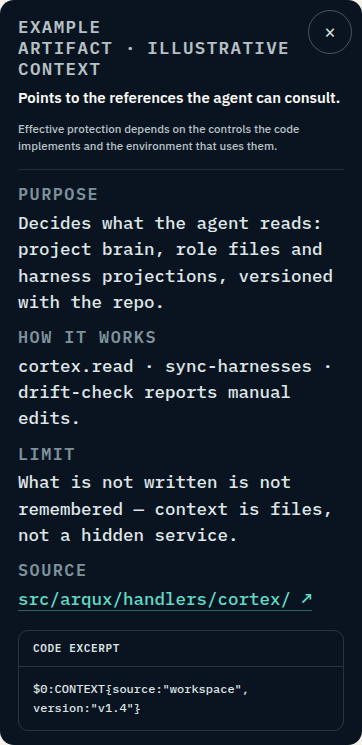
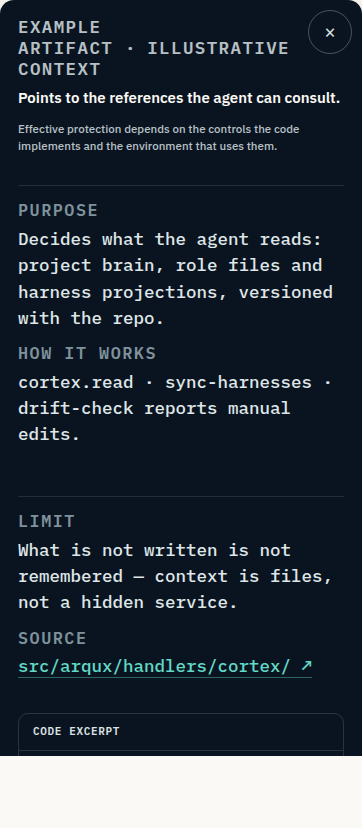
fix: distribute detail card content into 2x2 quadrants
Card body is now a four-quadrant grid: summary (benefit+scope), role
(purpose+how), bounds (limit+source), code excerpt — wider columns,
+5% card height, single column on mobile.

Generated with [Devin](https://devin.ai)

diff --git a/es/referencia/index.html b/es/referencia/index.html
@@ -158,12 +158,7 @@
               <button type="button" class="dim-chip" data-dimension="4" aria-pressed="false">5 · Ejecución — ¿Qué se hizo?</button>
               <button type="button" class="dim-chip" data-dimension="5" aria-pressed="false">6 · Evidencia — ¿Qué puede comprobarse?</button>
             </div>
-            <div class="artifact-preview" role="region" aria-label="Detalle de la dimensión" tabindex="-1"><button class="dim-preview-close" type="button" aria-label="Cerrar detalle">×</button><div class="artifact-label"><span id="artifact-name">Artefacto de ejemplo · identidad</span><span id="artifact-status">Ilustrativo</span></div><p class="dim-benefit" id="dim-benefit"></p><p class="dim-footer">La protección efectiva depende de los controles que el código implementa y del entorno que los utiliza.</p><dl class="ficha-rows">
-                <div><dt id="ficha-dt-fn">Para qué sirve</dt><dd id="ficha-fn">Vincula cada operación a un rol de agente declarado y a un contrato de comportamiento cargado desde el espacio de trabajo.</dd></div>
-                <div><dt id="ficha-dt-via">Cómo participa</dt><dd id="ficha-via"><code>identity.switch</code> · <code>arqux wake --identity</code> — la ejecución sin vínculo rechaza SESSION_UNBOUND.</dd></div>
-                <div><dt id="ficha-dt-lim">Qué límite tiene</dt><dd id="ficha-lim">Declarado, no autenticado: acota la responsabilidad, no las credenciales.</dd></div>
-                <div><dt id="ficha-dt-src">Fuente</dt><dd><a id="ficha-src" href="https://github.com/FidelErnesto03/arqux/tree/390333913e0f071a89241187f36cc90289e7e043/src/arqux/handlers/identity" target="_blank" rel="noreferrer">src/arqux/handlers/identity/ ↗</a></dd></div>
-              </dl><div class="dim-code"><span class="dim-code-label">Extracto de código</span><code id="artifact-code">$1:IDENTITY{role:"executor", scope:"project:alpha"}</code></div></div>
+            <div class="artifact-preview" role="region" aria-label="Detalle de la dimensión" tabindex="-1"><button class="dim-preview-close" type="button" aria-label="Cerrar detalle">×</button><div class="artifact-label"><span id="artifact-name">Artefacto de ejemplo · identidad</span><span id="artifact-status">Ilustrativo</span></div><div class="dim-grid"><div class="dim-q dim-q-summary"><p class="dim-benefit" id="dim-benefit"></p><p class="dim-footer">La protección efectiva depende de los controles que el código implementa y del entorno que los utiliza.</p></div><dl class="ficha-rows dim-q"><div><dt id="ficha-dt-fn">Para qué sirve</dt><dd id="ficha-fn">Vincula cada operación a un rol de agente declarado y a un contrato de comportamiento cargado desde el espacio de trabajo.</dd></div><div><dt id="ficha-dt-via">Cómo participa</dt><dd id="ficha-via"><code>identity.switch</code> · <code>arqux wake --identity</code> — la ejecución sin vínculo rechaza SESSION_UNBOUND.</dd></div></dl><dl class="ficha-rows dim-q"><div><dt id="ficha-dt-lim">Qué límite tiene</dt><dd id="ficha-lim">Declarado, no autenticado: acota la responsabilidad, no las credenciales.</dd></div><div><dt id="ficha-dt-src">Fuente</dt><dd><a id="ficha-src" href="https://github.com/FidelErnesto03/arqux/tree/390333913e0f071a89241187f36cc90289e7e043/src/arqux/handlers/identity" target="_blank" rel="noreferrer">src/arqux/handlers/identity/ ↗</a></dd></div></dl><div class="dim-q dim-q-code"><div class="dim-code"><span class="dim-code-label">Extracto de código</span><code id="artifact-code">$1:IDENTITY{role:"executor", scope:"project:alpha"}</code></div></div></div></div>
           </div>
         </div>
       </div>

diff --git a/reference/index.html b/reference/index.html
@@ -158,12 +158,7 @@
               <button type="button" class="dim-chip" data-dimension="4" aria-pressed="false">5 · Execution — What happened?</button>
               <button type="button" class="dim-chip" data-dimension="5" aria-pressed="false">6 · Evidence — What can be verified?</button>
             </div>
-            <div class="artifact-preview" role="region" aria-label="Dimension detail" tabindex="-1"><button class="dim-preview-close" type="button" aria-label="Close detail">×</button><div class="artifact-label"><span id="artifact-name">Example artifact · identity</span><span id="artifact-status">Illustrative</span></div><p class="dim-benefit" id="dim-benefit"></p><p class="dim-footer">Effective protection depends on the controls the code implements and the environment that uses them.</p><dl class="ficha-rows">
-                <div><dt id="ficha-dt-fn">Purpose</dt><dd id="ficha-fn">Binds every operation to a declared agent role and behavioral contract loaded from the workspace.</dd></div>
-                <div><dt id="ficha-dt-via">How it works</dt><dd id="ficha-via"><code>identity.switch</code> · <code>arqux wake --identity</code> — unbound execution rejects SESSION_UNBOUND.</dd></div>
-                <div><dt id="ficha-dt-lim">Limit</dt><dd id="ficha-lim">Declared, not authenticated — it scopes responsibility, not credentials.</dd></div>
-                <div><dt id="ficha-dt-src">Source</dt><dd><a id="ficha-src" href="https://github.com/FidelErnesto03/arqux/tree/390333913e0f071a89241187f36cc90289e7e043/src/arqux/handlers/identity" target="_blank" rel="noreferrer">src/arqux/handlers/identity/ ↗</a></dd></div>
-              </dl><div class="dim-code"><span class="dim-code-label">Code excerpt</span><code id="artifact-code">$1:IDENTITY{role:"executor", scope:"project:alpha"}</code></div></div>
+            <div class="artifact-preview" role="region" aria-label="Dimension detail" tabindex="-1"><button class="dim-preview-close" type="button" aria-label="Close detail">×</button><div class="artifact-label"><span id="artifact-name">Example artifact · identity</span><span id="artifact-status">Illustrative</span></div><div class="dim-grid"><div class="dim-q dim-q-summary"><p class="dim-benefit" id="dim-benefit"></p><p class="dim-footer">Effective protection depends on the controls the code implements and the environment that uses them.</p></div><dl class="ficha-rows dim-q"><div><dt id="ficha-dt-fn">Purpose</dt><dd id="ficha-fn">Binds every operation to a declared agent role and behavioral contract loaded from the workspace.</dd></div><div><dt id="ficha-dt-via">How it works</dt><dd id="ficha-via"><code>identity.switch</code> · <code>arqux wake --identity</code> — unbound execution rejects SESSION_UNBOUND.</dd></div></dl><dl class="ficha-rows dim-q"><div><dt id="ficha-dt-lim">Limit</dt><dd id="ficha-lim">Declared, not authenticated — it scopes responsibility, not credentials.</dd></div><div><dt id="ficha-dt-src">Source</dt><dd><a id="ficha-src" href="https://github.com/FidelErnesto03/arqux/tree/390333913e0f071a89241187f36cc90289e7e043/src/arqux/handlers/identity" target="_blank" rel="noreferrer">src/arqux/handlers/identity/ ↗</a></dd></div></dl><div class="dim-q dim-q-code"><div class="dim-code"><span class="dim-code-label">Code excerpt</span><code id="artifact-code">$1:IDENTITY{role:"executor", scope:"project:alpha"}</code></div></div></div></div>
           </div>
         </div>
       </div>

diff --git a/assets/style.css b/assets/style.css
@@ -83,6 +83,11 @@ h3{font-size:1.1rem;font-weight:650;letter-spacing:-.02em;margin-bottom:8px}.lea
 .dim-code{margin-top:12px;border:1px solid rgba(220,226,227,.16);border-radius:10px;overflow:hidden}
 .dim-code-label{display:block;padding:10px 14px;border-bottom:1px solid rgba(220,226,227,.16);font:600 11px/1.4 var(--mono);letter-spacing:.06em;text-transform:uppercase;color:var(--mist-300)}
 .dim-code code{display:block;padding:12px 14px;font:500 12px/1.6 var(--mono);color:var(--mist-300);white-space:pre-wrap;overflow-wrap:anywhere}
+.dim-grid{display:grid;grid-template-columns:1fr 1fr;gap:20px 24px}
+.dim-q{min-width:0}
+.dim-q .ficha-rows{display:grid;grid-template-columns:1fr;gap:16px;margin:0;padding:0;border-top:0}
+.dim-q .dim-code{margin-top:0}
+.dim-q-summary .dim-footer{margin-bottom:0}
 .dim-preview-close{position:absolute;right:10px;top:10px;width:44px;height:44px;display:grid;place-items:center;border:1px solid rgba(220,226,227,.3);border-radius:50%;background:transparent;color:var(--mist-300);font:400 20px/1 var(--sans);cursor:pointer}
 .dim-preview-close:hover{border-color:var(--amber-500);color:var(--amber-500)}
 .dim-preview-close:focus-visible{outline:2px solid var(--amber-500);outline-offset:3px}.artifact-label{display:flex;align-items:center;justify-content:space-between;gap:10px;color:var(--mist-500);font:600 10px/1.2 var(--mono);text-transform:uppercase;letter-spacing:.08em;margin-bottom:8px}
@@ -517,6 +522,7 @@ body.page-reference .section-nav{display:block}
   .dim-chip:focus-visible{outline:3px solid var(--ink-950);outline-offset:2px;box-shadow:0 0 0 6px var(--amber-500)}
   .hex-visual .artifact-preview{position:relative;display:none;max-height:none;overflow:visible;margin-top:14px;justify-self:stretch;width:100%}
   .hex-visual.is-detail .artifact-preview{display:block}
+  .dim-grid{grid-template-columns:1fr;gap:16px}
   .compat-entry{grid-template-columns:1fr;gap:26px}
   .compat-routes{grid-template-columns:1fr}
 }
